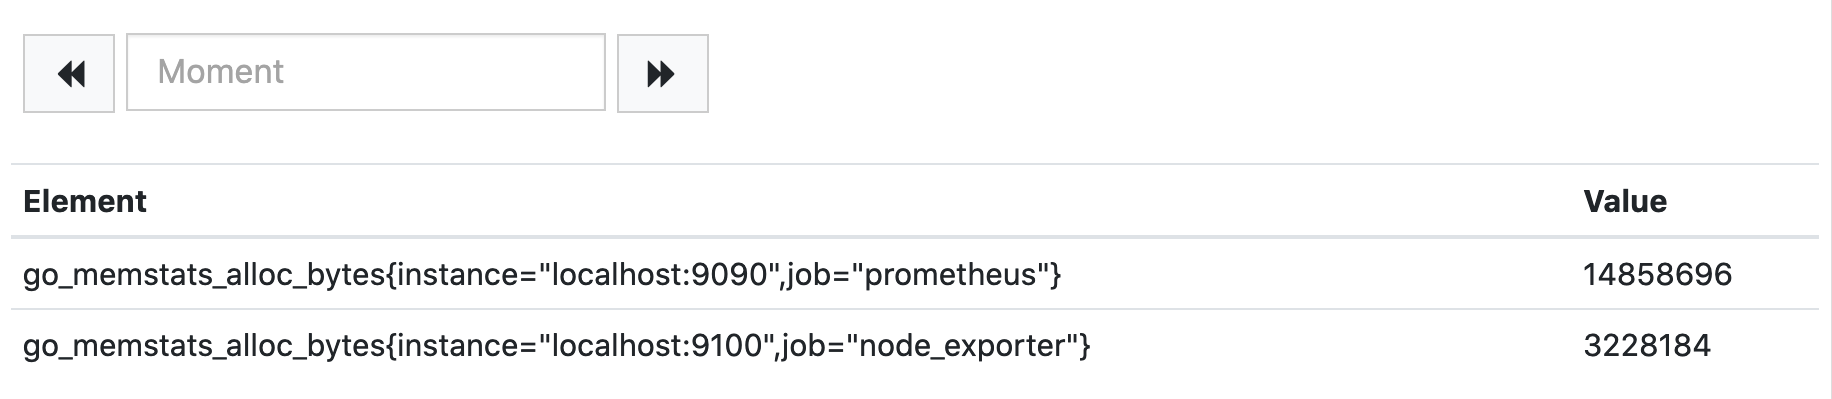
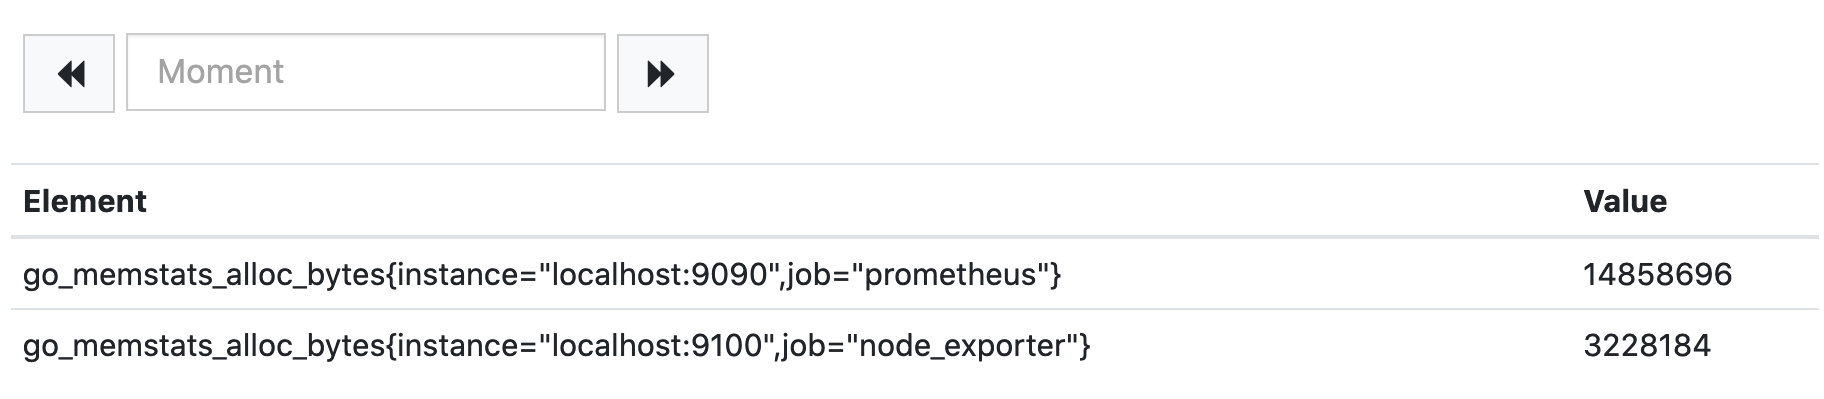
size

diff --git a/prometheus-introduction/README.md b/prometheus-introduction/README.md
@@ -106,7 +106,7 @@ Most Prometheus components are written in Go, making them easy to build and depl
   - `job="prometheus"`
 
 <br />
-<div align="center"><img src="assets/console-go-memstats-alloc-bytes.png" width="860"></div>
+<div align="center"><img src="assets/console-go-memstats-alloc-bytes.png" width="820"></div>
 <br />
 
 - The time series data also consists of the **actual data**, called **Samples**:
